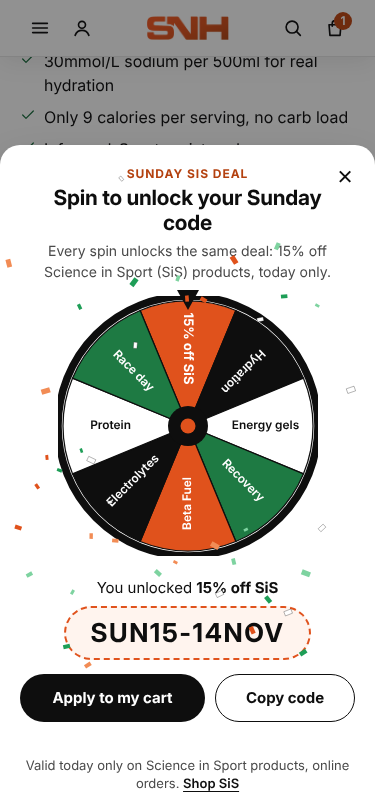
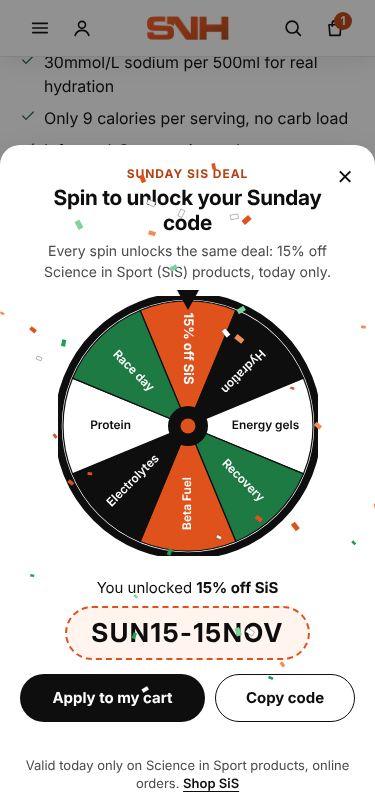
Sunday SiS deal: real Sunday test results
Claude-Session: https://claude.ai/code/session_012uBojXVgY2Xnf2XHHwLrkA

diff --git a/docs/golive/POLISH-REPORT.md b/docs/golive/POLISH-REPORT.md
@@ -16,7 +16,7 @@ Writes are in `WRITE-LOG.md` (section "14 Nov 2026 polish round"); backups in `b
 - **Tested with a day override (since removed):**
   - Sunday: chip, wheel, label, focus trap, Esc, no chip on /cart, second open goes straight to the code.
   - Saturday, Monday and today: nothing shows and nothing loads.
-- **Not yet tested: the discount line in the cart.** The first code only becomes active at 00:00 Sunday. A follow-up run is scheduled for just after that to do spin → apply → discount line, 3 times at 375 and 1440.
+- **Real Sunday test (15 Nov, 08:40 Sri Lanka time, no override):** spin → apply → cart showed SUN15-15NOV with Rs 599.85 (15%) off the SiS Hydro line in all 6 runs (3 at 375, 3 at 1440). The chip stayed clear of the add-to-cart bar, was absent on /cart, and reopening went straight to the code. The cart was cleared after each run.
 - **Phone label:** it is 12px, 1px under the 13px floor, so it fits beside the quick-add button.
 
 ## Phase 2: UI polish
